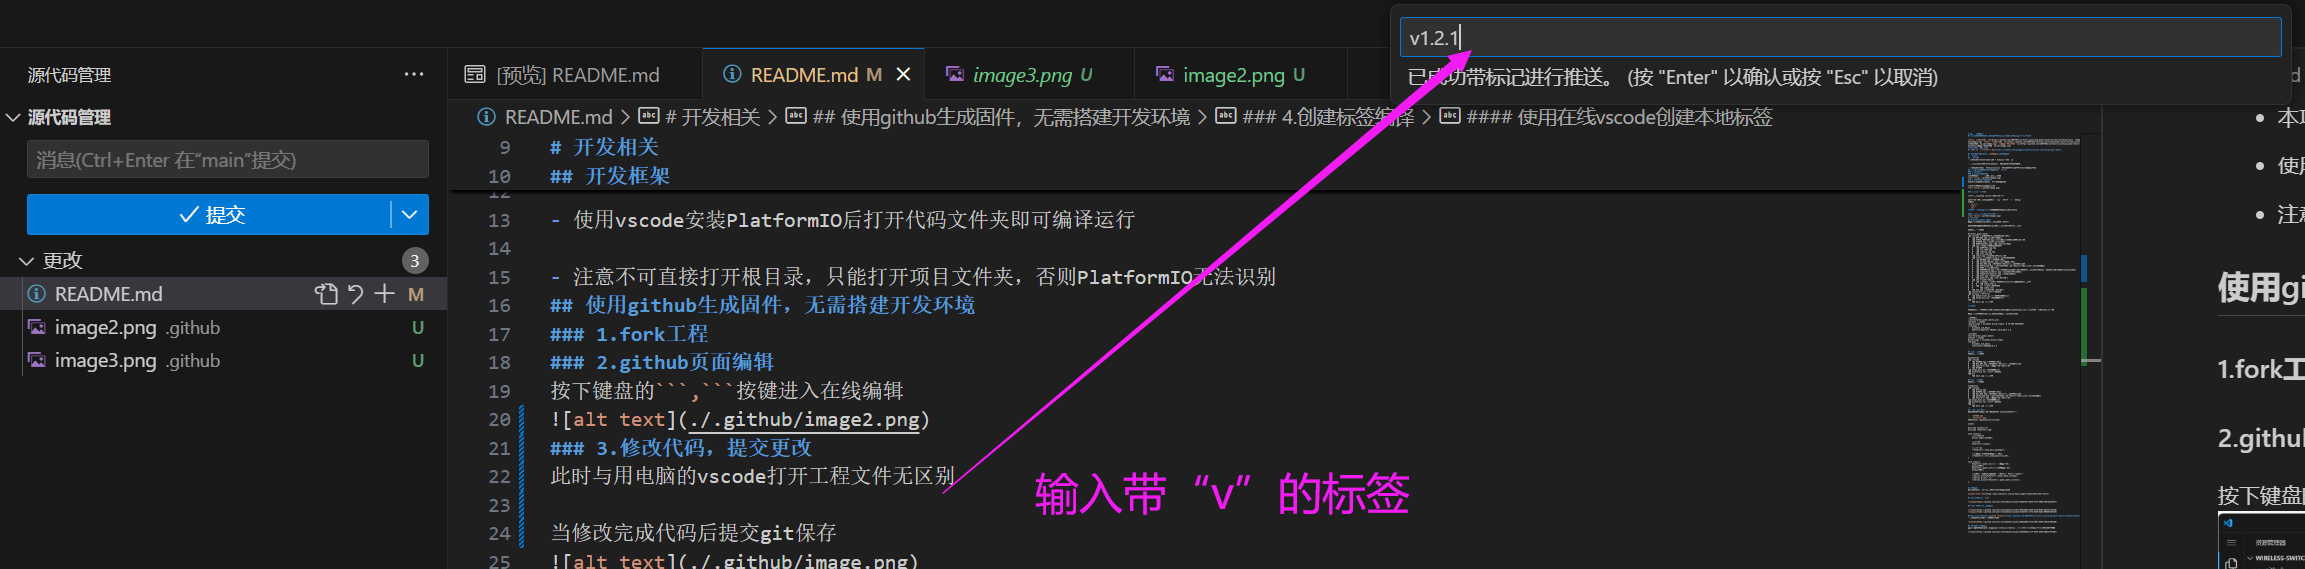
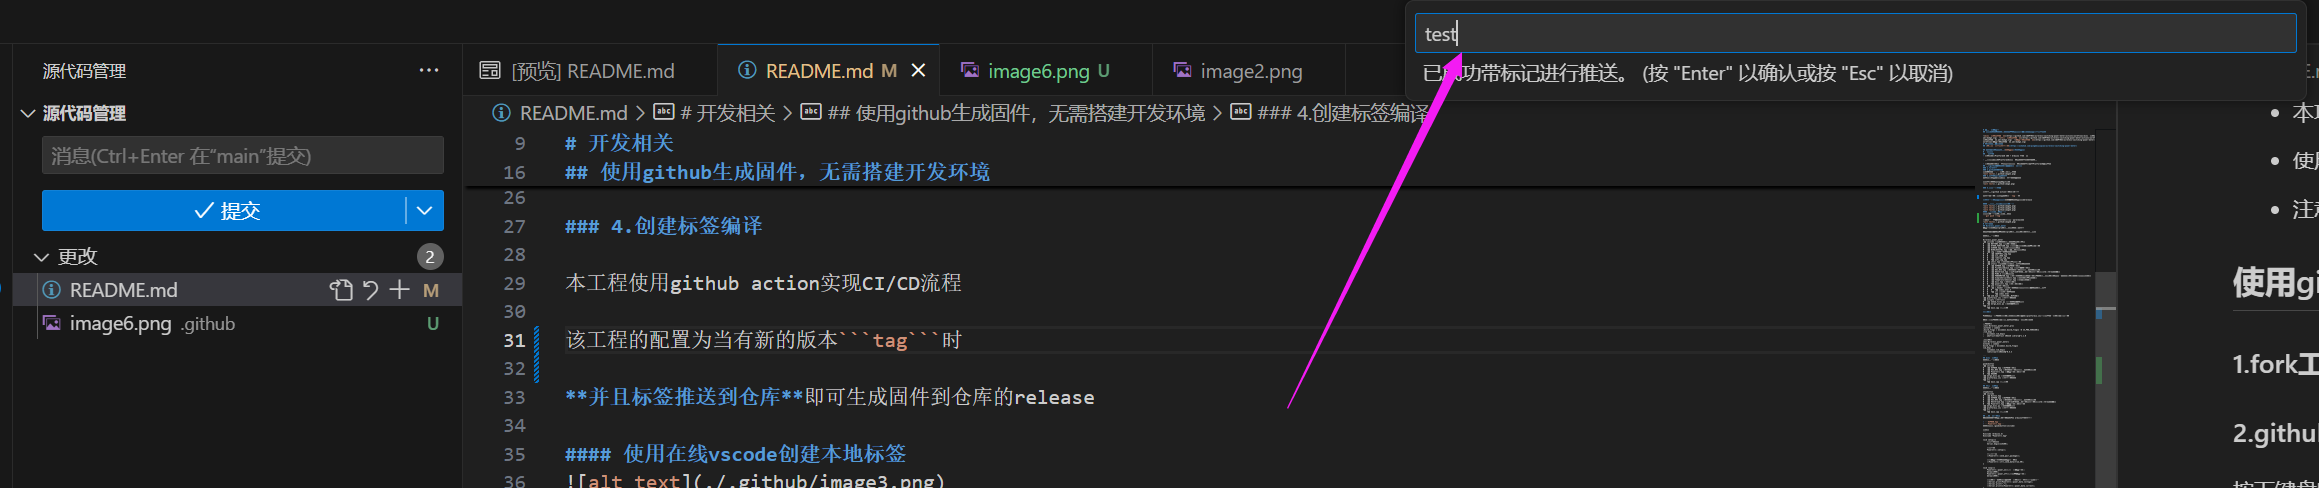
更新

diff --git a/README.md b/README.md
@@ -28,11 +28,8 @@
 
 本工程使用github action实现CI/CD流程
 
-该工程的配置为当有新的版本```tag```时(带```v```的tag)
-例如：
-```v1.2.1```
-```v10.1```
-```v12```
+该工程的配置为当有新的版本```tag```时
+
 **并且标签推送到仓库**即可生成固件到仓库的release
 
 #### 使用在线vscode创建本地标签
@@ -40,6 +37,11 @@
 ![alt text](./.github/image4.png)
 ![alt text](./.github/image5.png)
 #### 使用命令行推送标签
+创建本地标签后点击命令行输入
+```git push --tag```
+
+回车后过几分钟固件即可自动上传到release处
+![alt text](./.github/image6.png)
 # 工程介绍
 ## Wireless_power_meter
 功率计本体代码，pro版本和普通版均为此工程
